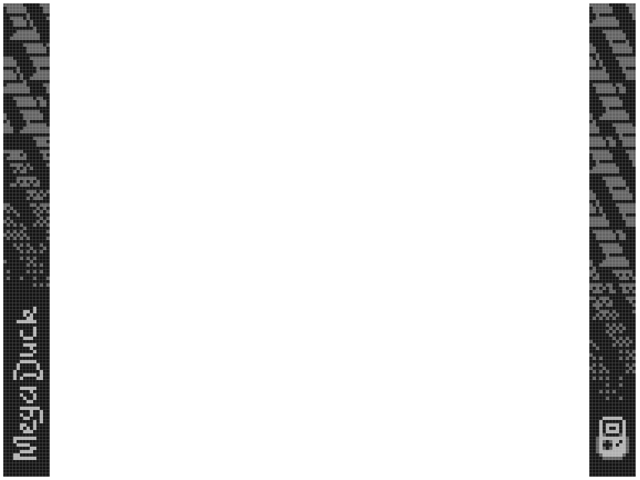
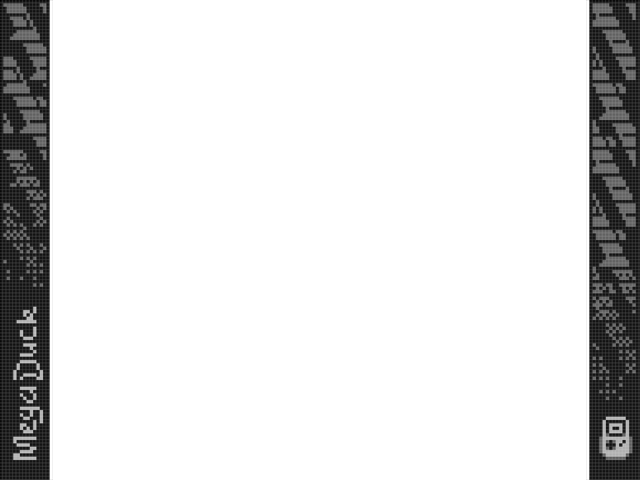
improve bezels

diff --git a/README.md b/README.md
@@ -8,7 +8,7 @@ Color systems use a subtle pixel grid that gently shapes and approximates indivi
 
 Everything is intentionally subtle to avoid negatively affecting image quality while still adding a nostalgic feeling, as if you were playing on a low-resolution display. Lens shadows, rounded corners, and similar embellishments are intentionally omitted to keep the focus on pixel structure and enjoy the Miyoo Mini’s bright IPS display.
 
-Portrait/square overlays add decorative bezels on the sides while landscape overlays shift the rendered image upward with a filter and place the system logo below. This effectively tricks the brain, making the black bars less distracting. I've also made the bezels match the resolution of the emulated screen so that it feels like the entire screen is a uniform low resolution.
+Portrait/square overlays add decorative bezels on the sides while landscape overlays shift the rendered image upward using a filter and place the system logo below. This effectively tricks the brain, making the black bars less distracting. I've also made the bezels match the resolution of the emulated screen so that it feels like the entire screen is the same display with a uniform low resolution.
 
 ## System specific overlays and settings
 
@@ -16,7 +16,7 @@ Save overrides per content directory!
 
 ### Game Boy (GB)
 
-![Subtle_GB preview](.previews/Subtle_GB_Preview.png?v=17)
+![Subtle_GB preview](.previews/Subtle_GB_Preview.png?v=18)
 
 ```text
 Quick Menu
@@ -39,7 +39,7 @@ Settings
 
 ### Lynx
 
-![Subtle_LYNX preview](.previews/Subtle_LYNX_Preview.png?v=17)
+![Subtle_LYNX preview](.previews/Subtle_LYNX_Preview.png?v=18)
 
 ```text
 Quick Menu
@@ -57,7 +57,7 @@ Settings
 
 ### Game Gear (GG)
 
-![Subtle_GG preview](.previews/Subtle_GG_Preview.png?v=17)
+![Subtle_GG preview](.previews/Subtle_GG_Preview.png?v=18)
 
 ```text
 Quick Menu
@@ -74,7 +74,7 @@ Settings
 
 ### Supervision
 
-![Subtle_SUPERVISION preview](.previews/Subtle_SUPERVISION_Preview.png?v=17)
+![Subtle_SUPERVISION preview](.previews/Subtle_SUPERVISION_Preview.png?v=18)
 
 ```text
 Quick Menu
@@ -93,7 +93,7 @@ Settings
 
 ### Mega Duck
 
-![Subtle_MEGADUCK preview](.previews/Subtle_MEGADUCK_Preview.png?v=17)
+![Subtle_MEGADUCK preview](.previews/Subtle_MEGADUCK_Preview.png?v=18)
 
 ```text
 Quick Menu
@@ -110,7 +110,7 @@ Settings
 
 ### Game Boy Color (GBC)
 
-![Subtle_GBC preview](.previews/Subtle_GBC_Preview.png?v=17)
+![Subtle_GBC preview](.previews/Subtle_GBC_Preview.png?v=18)
 
 ```text
 Quick Menu
@@ -127,7 +127,7 @@ Settings
 
 ### Neo Geo Pocket (NGP)
 
-![Subtle_NGP preview](.previews/Subtle_NGP_Preview.png?v=17)
+![Subtle_NGP preview](.previews/Subtle_NGP_Preview.png?v=18)
 
 ```text
 Quick Menu
@@ -144,7 +144,7 @@ Settings
 
 ### WonderSwan (WS)
 
-![Subtle_WS preview](.previews/Subtle_WS_Preview.png?v=17)
+![Subtle_WS preview](.previews/Subtle_WS_Preview.png?v=18)
 
 ```text
 Quick Menu
@@ -162,7 +162,7 @@ Settings
 
 ### Game Boy Advance (GBA)
 
-![Subtle_GBA preview](.previews/Subtle_GBA_Preview.png?v=17)
+![Subtle_GBA preview](.previews/Subtle_GBA_Preview.png?v=18)
 
 ```text
 Quick Menu
@@ -180,7 +180,7 @@ Settings
 
 ### Pokemon Mini (POKE)
 
-![Subtle_POKE preview](.previews/Subtle_POKE_Preview.png?v=17)
+![Subtle_POKE preview](.previews/Subtle_POKE_Preview.png?v=18)
 
 The Pokémon Mini overlay requires a unique approach. Due to the ultra-low resolution, a fully upscaled image results in gigantic pixels that quickly strain eyes and brain. Furthermore, games often place text and art right at the screen's edge. Because of generous padding around the physical display this wasn't an issue on original hardware, but scaling the image to the very edges of a modern retro handheld makes UI elements hard to parse.
 
@@ -208,7 +208,7 @@ In-Game
 
 ### Nintendo DS (NDS)
 
-![Subtle_NDS preview](.previews/Subtle_NDS_Preview.png?v=17)
+![Subtle_NDS preview](.previews/Subtle_NDS_Preview.png?v=18)
 
 ```text
 Menu + Start
@@ -221,7 +221,7 @@ Save overrides per Game!
 
 ### Apotris (GBA)
 
-![Subtle_Apotris preview](.previews/Subtle_Apotris_Preview.png?v=17)
+![Subtle_Apotris preview](.previews/Subtle_Apotris_Preview.png?v=18)
 
 ```text
 Quick Menu
@@ -243,7 +243,7 @@ In-Game
 
 ### Tetris for Chromatic (GBC)
 
-![Subtle_Apotris preview](.previews/Subtle_Tetris-for-Chromatic_Preview.png?v=17)
+![Subtle_Apotris preview](.previews/Subtle_Tetris-for-Chromatic_Preview.png?v=18)
 
 ```text
 Quick Menu
